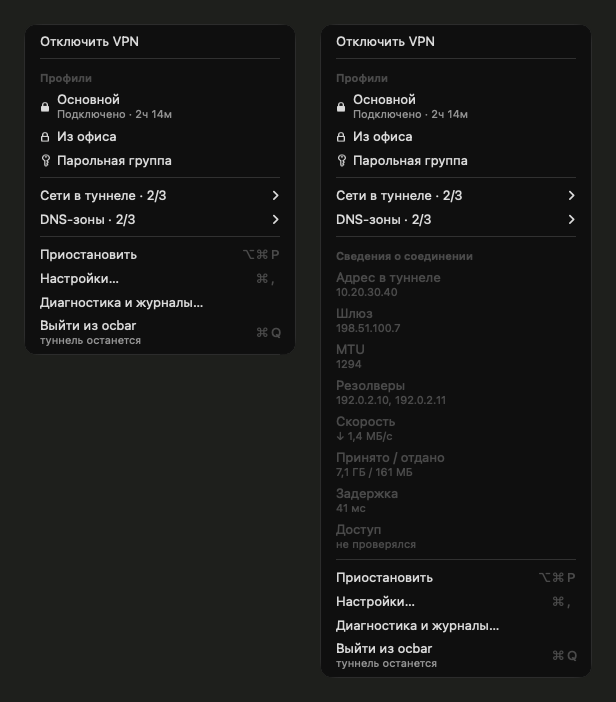
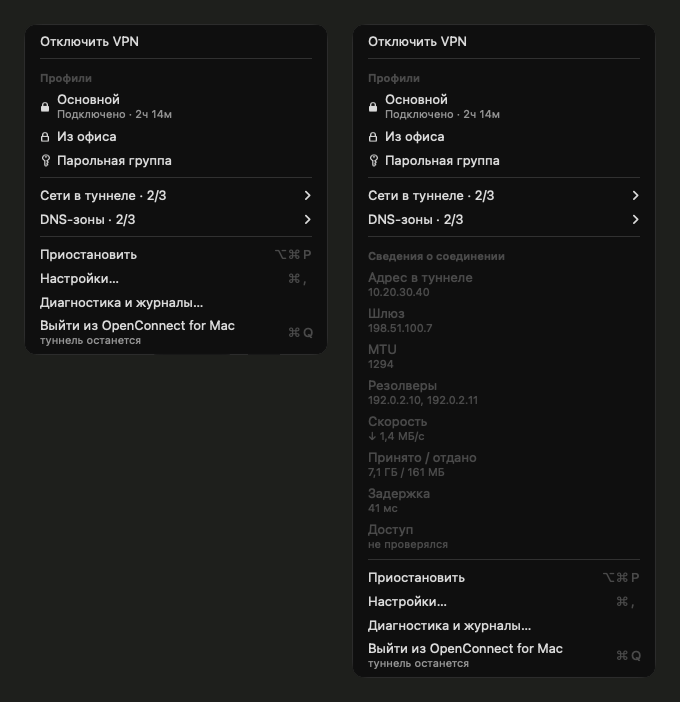
docs: refresh bilingual screenshots and site visuals for new name

diff --git a/tools/ui-lab/index.html b/tools/ui-lab/index.html
@@ -3,7 +3,7 @@
 <head>
 <meta charset="utf-8">
 <meta name="viewport" content="width=device-width, initial-scale=1">
-<title>ocbar — песочница интерфейса</title>
+<title>OpenConnect for Mac — песочница интерфейса</title>
 <style>
   :root {
     color-scheme: light dark;
@@ -79,7 +79,7 @@
 </head>
 <body>
 <header>
-  <h1>ocbar — песочница интерфейса</h1>
+  <h1>OpenConnect for Mac — песочница интерфейса</h1>
   <label class="lbl">состояние</label>
   <div class="seg" id="states"></div>
   <label class="lbl">тема</label>

diff --git a/website/build.py b/website/build.py
@@ -44,6 +44,7 @@ if(w==="ru")location.replace("%s"+location.hash)})()</script>
 # Анимация меню — та же, что в README: tools/demo-gif.sh пишет её в assets/ репозитория.
 for lang, source in (('en', 'assets/demo.gif'), ('ru', 'assets/ru/demo.gif')):
     shutil.copyfile(ROOT.parent / source, ROOT / f'dist/assets/demo-{lang}.gif')
+    shutil.copyfile(ROOT.parent / Path(source).with_name('profile.png'), ROOT / f'dist/assets/profile-{lang}.png')
 
 for lang in ('en', 'ru'):
     content = json.loads((ROOT / f'src/{lang}.json').read_text())

diff --git a/website/README.md b/website/README.md
@@ -17,7 +17,8 @@ Preview `/dist/` and `/dist/ru/`. The main page template is `src/page.html`;
 translations are in `src/en.json` and `src/ru.json`. Installation guides keep their
 own templates and their existing URLs. `dist/landing.css` styles the landing,
 `dist/style.css` the installation guides. The build copies the README animation
-`assets/demo.gif` and `assets/ru/demo.gif` to `dist/assets/demo-{en,ru}.gif`; the page
+`assets/demo.gif` and `assets/ru/demo.gif` to `dist/assets/demo-{en,ru}.gif`,
+and the profile screenshots to `dist/assets/profile-{en,ru}.png`; the page
 background matches the animation background `#EEF0EA`. Generated HTML is tracked.
 
 ## Publish
